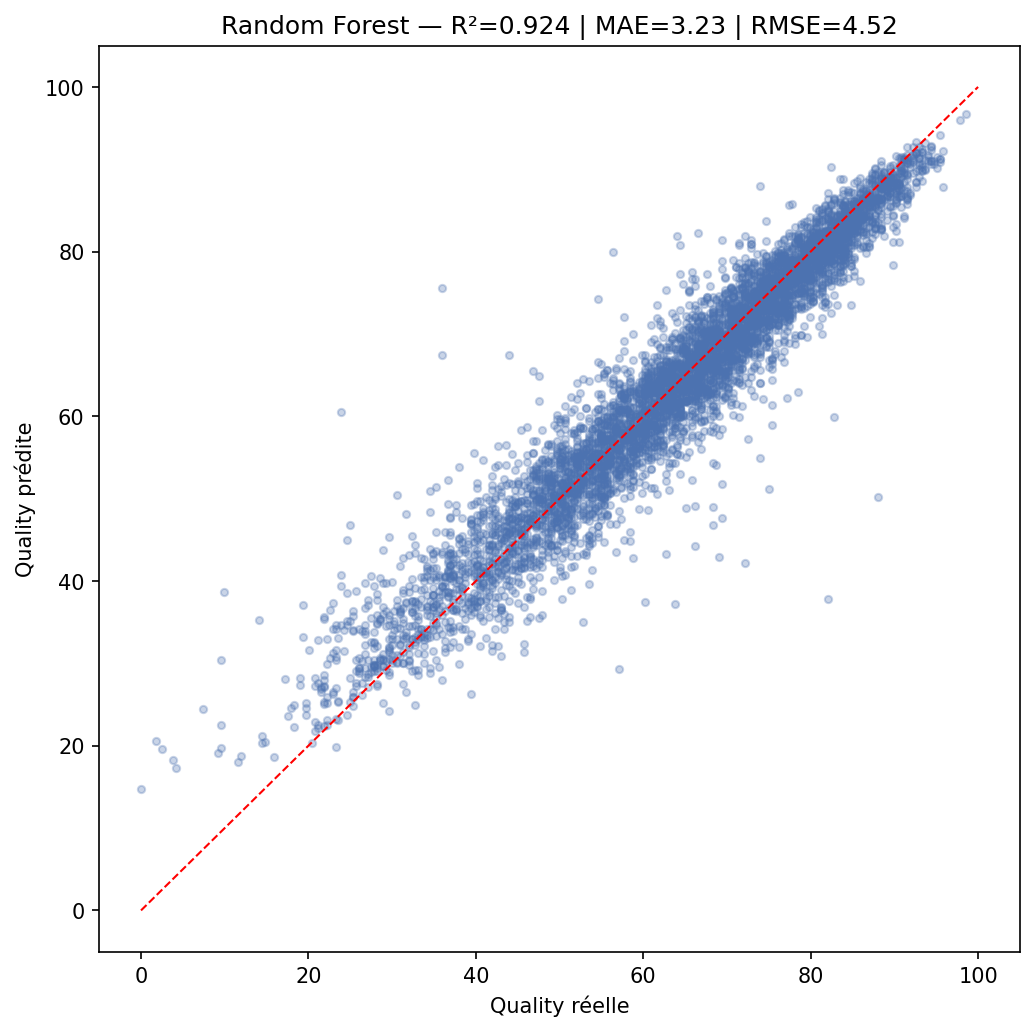
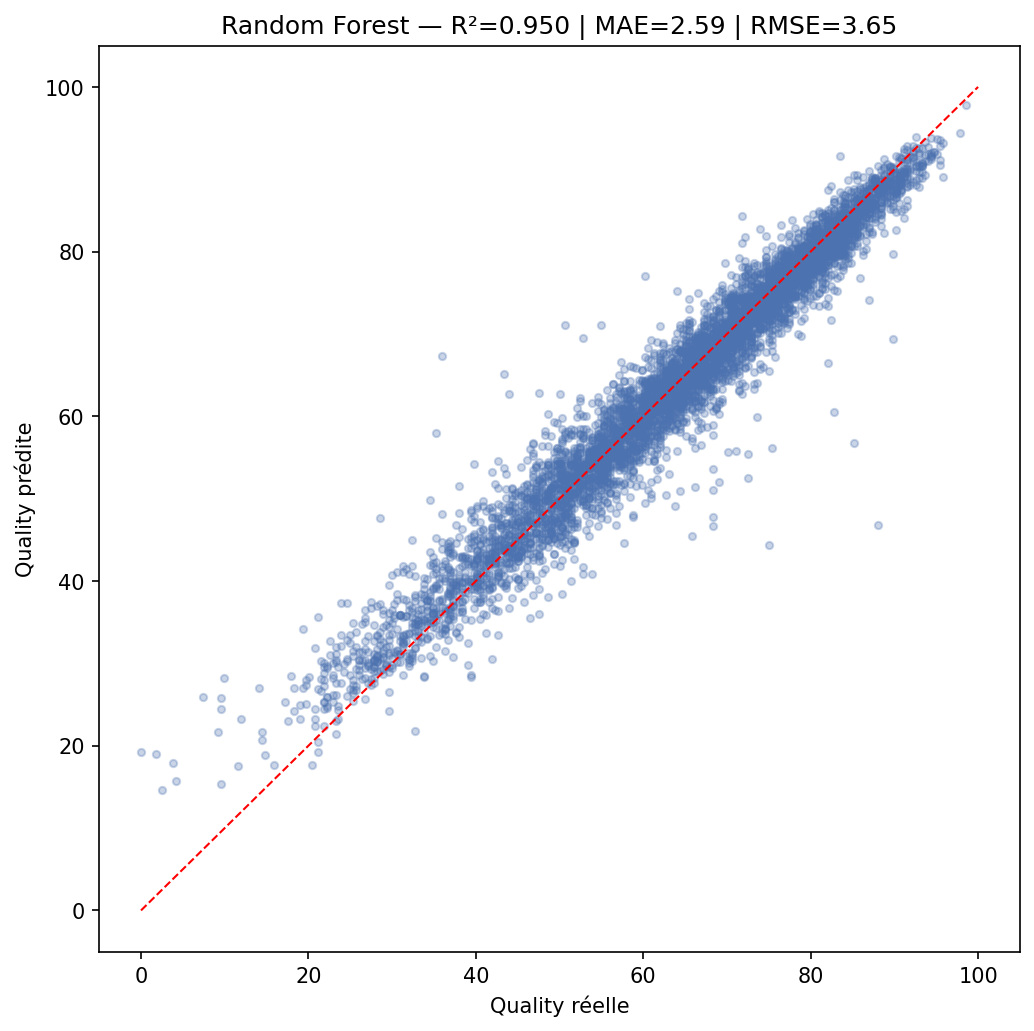
Add XGBoost plot; tune RandomForest params
Save and display an XGBoost scatter plot with performance metrics (fig_XGBoost1.png) and plotting code in XGBoost_Matrice_12Var.py. Adjust RandomForest hyperparameters in RF_Matrix.py (n_estimators=300, min_samples_split=2, min_samples_leaf=1, max_features=0.5, n_jobs=-1). Update/replace several figure assets and remove the root-level fig_confusion_matrix.png; compiled __pycache__ files were also added.

diff --git a/scripts/XGBoost_Matrice_12Var.py b/scripts/XGBoost_Matrice_12Var.py
@@ -1,5 +1,6 @@
 import pandas as pd
 import numpy as np
+import matplotlib.pyplot as plt
 from xgboost import XGBRegressor
 from sklearn.model_selection import train_test_split
 from sklearn.metrics import mean_absolute_error, mean_squared_error, r2_score
@@ -53,3 +54,17 @@ exemples = pd.DataFrame({
     'Écart':  (y_test.values[:5] - y_pred[:5]).round(1)
 })
 print(exemples.to_string(index=False))
+
+# ════════════════════════════════════════════════════════
+# AFFICHAGE
+# ════════════════════════════════════════════════════════
+plt.figure(figsize=(7, 7))
+plt.scatter(y_test, y_pred, alpha=0.3, s=12, color='#4C72B0')
+plt.plot([0, 100], [0, 100], 'r--', linewidth=1)
+plt.xlabel("Quality réelle")
+plt.ylabel("Quality prédite")
+plt.title(f"XGBoost — R²={r2:.3f} | MAE={mae:.2f} | RMSE={rmse:.2f}")
+plt.tight_layout()
+plt.savefig("fig_XGBoost1.png", dpi=150, bbox_inches='tight')
+plt.show()
+print("[Saved] fig_XGBoost1.png")

diff --git a/scripts/RF_Matrix.py b/scripts/RF_Matrix.py
@@ -17,7 +17,7 @@ print(f"Dataset : {len(data_X_formatee)} lignes | {data_X_formatee.shape[1]} var
 # ════════════════════════════════════════════════════════
 X_train, X_test, y_train, y_test = train_test_split(data_X_formatee, data_Y_formatee, test_size=0.2, random_state=42)
 
-rf = RandomForestRegressor(n_estimators=100, random_state=42, n_jobs=-1)
+rf = RandomForestRegressor(n_estimators=300, min_samples_split= 2,  min_samples_leaf= 1,max_features= 0.5,n_jobs=-1)
 
 print("Entraînement du modèle Random Forest en cours...")
 rf.fit(X_train, y_train)
